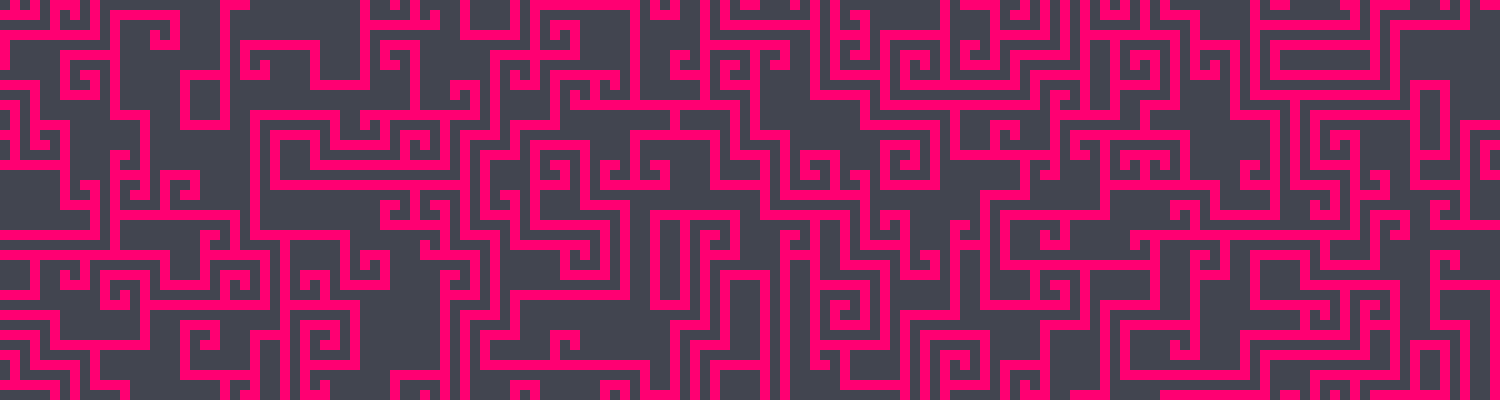
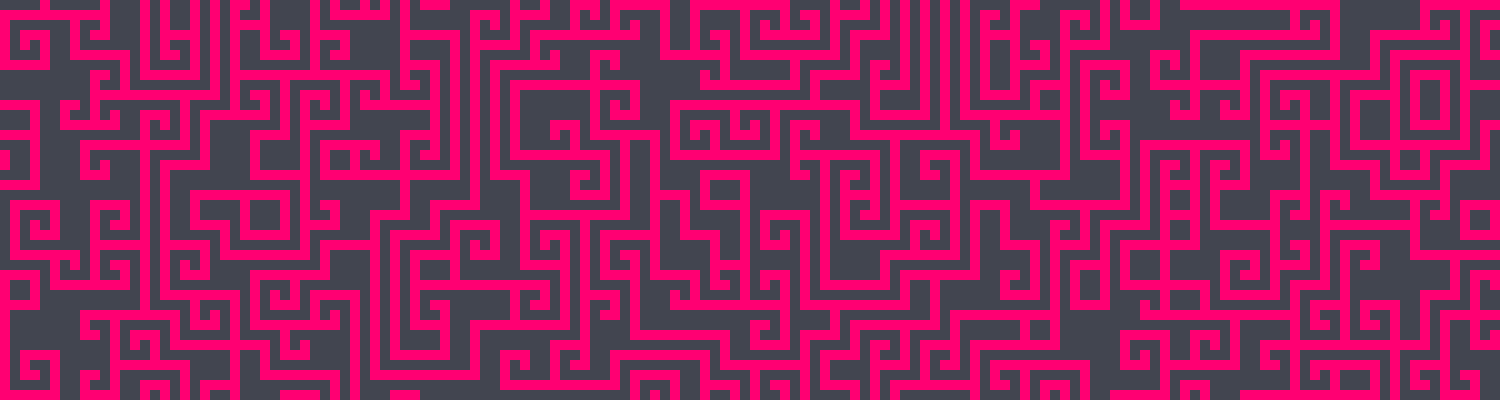
add new hyperparameter + experiments

diff --git a/wfc/preprocessor.py b/wfc/preprocessor.py
@@ -8,9 +8,10 @@ class Preprocessor:
     Class which generates tiles list and their adjacency rules from input image for WFC algorithm
     '''
 
-    def __init__(self, pixel_size, window_size):
+    def __init__(self, pixel_size, window_size, max_count=100):
         self.pixel_size = pixel_size
         self.window_size = window_size
+        self.max_count = max_count
 
         self.tiles = []
         self.adjacency_rules = []
@@ -45,7 +46,7 @@ class Preprocessor:
                 tiles += self._augment(tile)
 
         tiles, counts = np.unique(tiles, return_counts=True, axis=0)
-        self.tiles = [Tile(tile, count, self.pixel_size) for tile, count in zip(tiles, counts)]
+        self.tiles = [Tile(tile, min(count, self.max_count), self.pixel_size) for tile, count in zip(tiles, counts)]
 
     # generates adjacency rules in form that
     # adjacency_rules[direction[tile_id]] - is a list of all tiles ids which are compatible

diff --git a/main.py b/main.py
@@ -9,16 +9,19 @@ pixel_size = 10
 window_size = 3
 output_shape = (40, 150)
 retry_num = 5
+max_count = 20
+input_im_path = "images/spirals.png"
+output_im_path = "generated_images/spirals1.png"
 
-prep = Preprocessor(pixel_size, window_size)
-prep.preprocess("images/knot.png")
+prep = Preprocessor(pixel_size, window_size, max_count)
+prep.preprocess(input_im_path)
 print(f"Tiles number: {len(prep.tiles)}")
 
 gen = Generator(output_shape, pixel_size, window_size, prep.tiles, prep.adjacency_rules, retry_num)
 im = gen.generate()
 
 if im is not None:
-    cv2.imwrite("generated_images/knot.png", im)
+    cv2.imwrite(output_im_path, im)
 
 print("Image saved")
 
